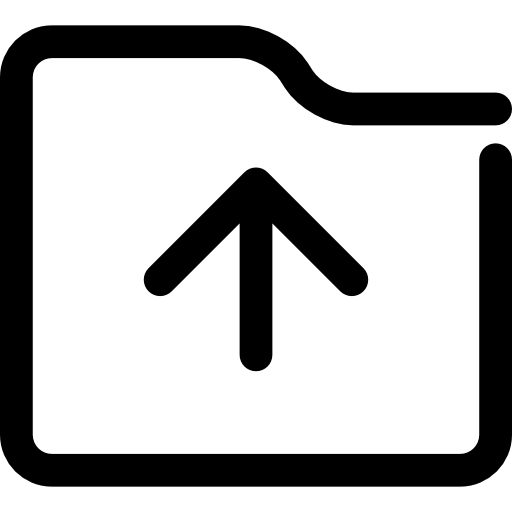
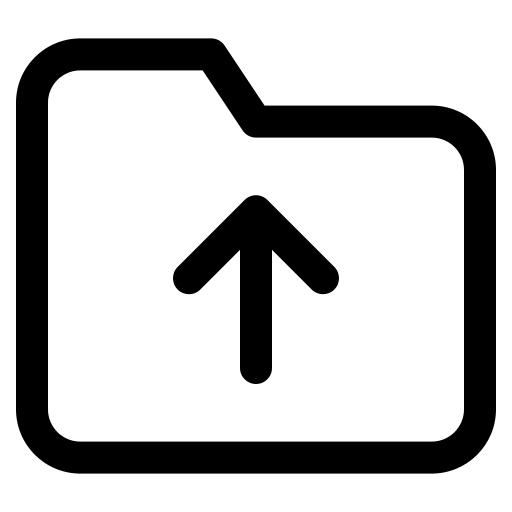
css

Changed region(s): [[0.0, 0.0312, 1.0, 0.9688], [0.2812, 0.3125, 0.7188, 0.5938], [0.4688, 0.6875, 0.5312, 0.75]]

diff --git a/style.css b/style.css
@@ -11,6 +11,7 @@ body {
     background-color: whitesmoke;
     margin-top: 1em;
     align-items: center;
+    width: 100vw;
   }
 
   .icon {
@@ -48,21 +49,19 @@ body {
     display: none;
   }
   
-  .upload {
-    margin-left: 1em;
-    height: 2em;
-    width: auto;
-  }
-  
   .submit {
     margin-right: 3em;
     font-size: 1em;
-    border-radius: 2em;
+    border-radius: .5em;
     border: none;
-    padding: 0 1em;
     font-family: 'IBM Plex Serif', serif;
     cursor: pointer;
-  }  
+  }
+
+  .icon_upload {
+    height: 100%;
+    width: 100%;
+  }
   
   .alert-container {
     text-align: center;

diff --git a/index.html b/index.html
@@ -41,10 +41,12 @@
     data-public-key="da7189a159abe1a7e2ee"
   />
   </div>
-    <input 
-    class="submit"
-    type="submit" 
-    value="Subir imagen">
+    <button
+      class="submit"
+      type="submit"
+    >
+      <img class="icon_upload" src="./img/upload.png" alt="subir foto">
+    </button>
   </form>
   <div class="alert-container"></div>
   <script src="script.js"></script>
